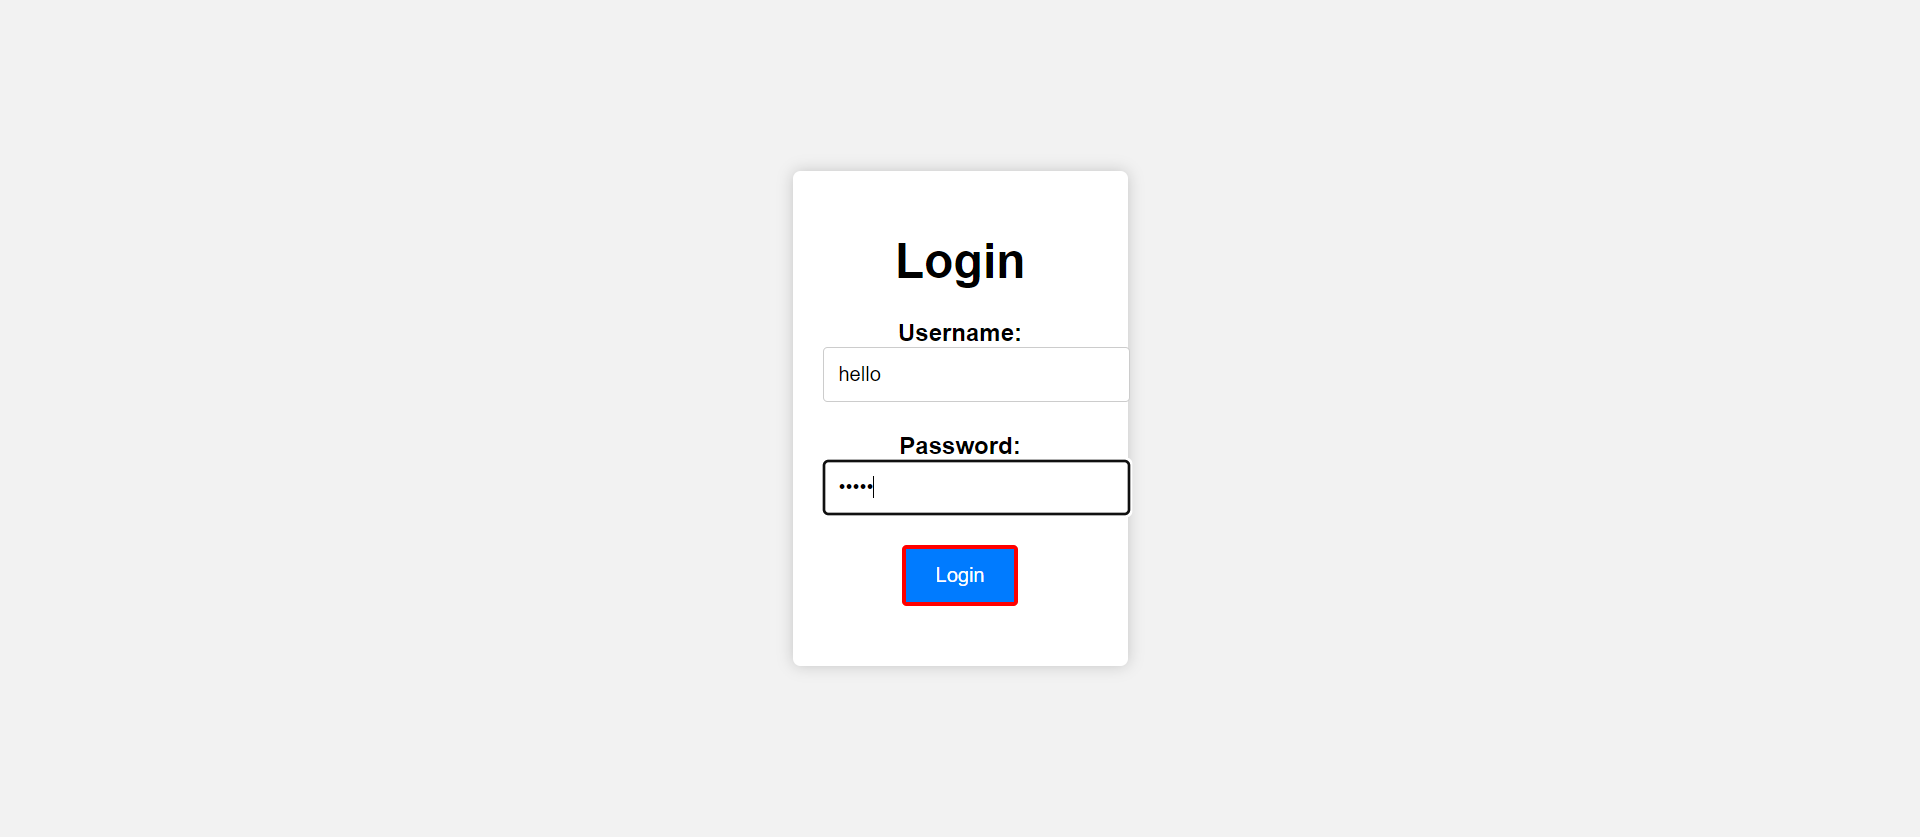
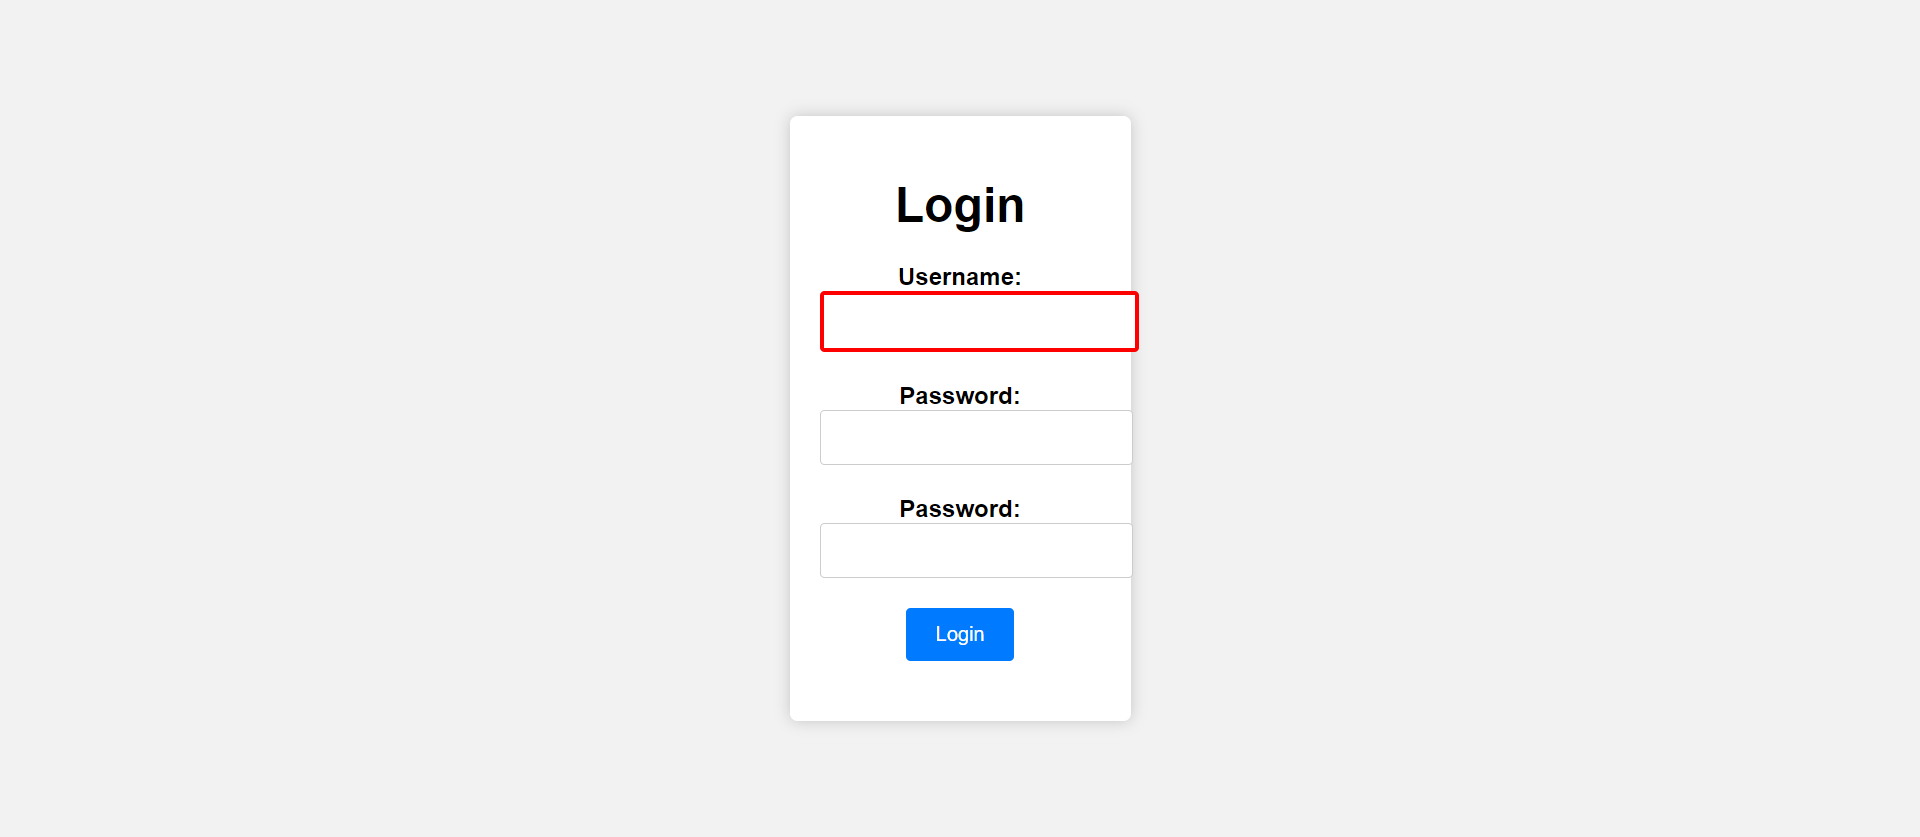
Added findElement healing ability

diff --git a/src/test/resources/Sample.html b/src/test/resources/Sample.html
@@ -64,15 +64,19 @@
         <h1>Login</h1>
         <form action="#" method="post">
             <div class="form-group">
-                <label for="username">Username:</label>
-                <input type="text" id="username" name="username" required>
+                <label for="username1">Username:</label>
+                <input type="text" id="username1" name="D1" required>
             </div>
             <div class="form-group">
                 <label for="password">Password:</label>
-                <input type="password" id="password" name="password" required>
+                <input type="text" id="password" name="D2" required>
             </div>
             <div class="form-group">
-                <input type="submit" id="loginButton1" value="Login">
+                <label for="password1">Password:</label>
+                <input type="text" id="password1" name="D3" required>
+            </div>
+            <div class="form-group">
+                <input type="submit" id="loginButton" value="Login">
             </div>
         </form>
     </div>

diff --git a/src/main/java/com/epam/healenium/handlers/proxy/BaseHandler.java b/src/main/java/com/epam/healenium/handlers/proxy/BaseHandler.java
@@ -386,21 +386,22 @@ import java.io.File;
 import java.io.IOException;
 import java.lang.reflect.InvocationHandler;
 import java.nio.file.Files;
-import java.nio.file.OpenOption;
 import java.nio.file.StandardOpenOption;
 import java.time.LocalDateTime;
 import java.time.format.DateTimeFormatter;
+import java.util.ArrayList;
+import java.util.Collections;
 import java.util.List;
-import java.util.Locale;
 import java.util.Optional;
 import java.util.concurrent.TimeUnit;
+import java.util.stream.Collectors;
 
 public abstract class BaseHandler implements InvocationHandler {
     private static final Logger log = LoggerFactory.getLogger(BaseHandler.class);
     private final LoadingCache<PageAwareBy, WebElement> stash;
     protected final SelfHealingEngine engine;
     protected final WebDriver driver;
-    private final LocatorInfo info = new LocatorInfo();
+    final LocatorInfo info = new LocatorInfo();
 
     /**
      * Constructor for BaseHandler.
@@ -414,7 +415,7 @@ public abstract class BaseHandler implements InvocationHandler {
                 .maximumSize(300L)
                 .expireAfterWrite(10L, TimeUnit.SECONDS)
                 .build(new CacheLoader<PageAwareBy, WebElement>() {
-                    public WebElement load(@NotNull PageAwareBy key) {
+                    public @NotNull WebElement load(@NotNull PageAwareBy key) {
                         return BaseHandler.this.lookUp(key);
                     }
                 });
@@ -437,6 +438,20 @@ public abstract class BaseHandler implements InvocationHandler {
         }
     }
 
+    // added
+    protected List<WebElement> findElements(By by) {
+        try {
+            PageAwareBy pageBy = awareBy(by);
+            By inner = pageBy.getBy();
+            if (engine.isHealingEnabled()) {
+                return lookUpAll(pageBy);
+            }
+            return driver.findElements(inner);
+        } catch (Exception ex) {
+            throw new NoSuchElementException("Failed to find elements using " + by.toString(), ex);
+        }
+    }
+
     /**
      * Look up a WebElement using a PageAwareBy locator.
      *
@@ -451,7 +466,7 @@ public abstract class BaseHandler implements InvocationHandler {
             return element;
         } catch (NoSuchElementException e) {
             log.warn("Failed to find an element using locator {}\nReason: {}\nTrying to heal...", key.getBy().toString(), e.getMessage());
-            return this.heal(key, e).orElseThrow(() -> e);
+            return heal(key, e).orElseThrow(() -> e);
         }
     }
 
@@ -471,7 +486,44 @@ public abstract class BaseHandler implements InvocationHandler {
         });
     }
 
-    private void reportFailedInfo(PageAwareBy by, LocatorInfo.Entry infoEntry, By healed) {
+    //added
+    protected List<WebElement> healAll(PageAwareBy pageBy, NoSuchElementException e) {
+        List<WebElement> healedElements = new ArrayList<>();
+        Optional<List<By>> healedLocators = healLocators(pageBy);
+
+        if (healedLocators.isPresent()) {
+            LocatorInfo.Entry entry = this.reportBasicInfo(pageBy, e);
+            for (By healed : healedLocators.get()) {
+                reportFailedInfo(pageBy, entry, healed);
+                engine.saveLocator(info);
+                healedElements.addAll(driver.findElements(healed));
+            }
+        }
+
+        return healedElements;
+    }
+
+    // added
+    protected List<WebElement> lookUpAll(PageAwareBy key) {
+        List<WebElement> elements = new ArrayList<>();
+        try {
+            List<WebElement> foundElements = this.driver.findElements(key.getBy());
+            for (WebElement element : foundElements) {
+                this.engine.savePath(key, element);
+                elements.add(element);
+            }
+            if (elements.isEmpty())
+                throw new NoSuchElementException("No elements found using locator " + key.getBy().toString());
+            else
+                return elements;
+        } catch (NoSuchElementException e) {
+            log.warn("Failed to find elements using locator {}\nReason: {}\nTrying to heal...", key.getBy().toString(), e.getMessage());
+            return this.healAll(key, e);
+        }
+    }
+
+
+    void reportFailedInfo(PageAwareBy by, LocatorInfo.Entry infoEntry, By healed) {
         String failedByValue = by.getBy().toString();
         int splitIndex = failedByValue.indexOf(":");
         infoEntry.setFailedLocatorType(failedByValue.substring(0, splitIndex).trim());
@@ -491,7 +543,7 @@ public abstract class BaseHandler implements InvocationHandler {
         }
     }
 
-    private LocatorInfo.Entry reportBasicInfo(PageAwareBy pageBy, NoSuchElementException e) {
+    LocatorInfo.Entry reportBasicInfo(PageAwareBy pageBy, NoSuchElementException e) {
         String targetClass = pageBy.getPageName();
         Optional<StackTraceElement> elOpt = StackUtils.getElementByClass(e.getStackTrace(), targetClass);
         return (LocatorInfo.Entry) elOpt.map((el) -> {
@@ -521,16 +573,49 @@ public abstract class BaseHandler implements InvocationHandler {
         return result.map(Scored::getValue);
     }
 
-   private static int imageCounter = 1;
+    //added
+    private boolean isScoreMatch(Scored<By> scoredBy, double threshold) {
+        double elementScore = scoredBy.getScore();
+        return elementScore >= threshold;
+    }
+
+    //added
+    protected Optional<List<By>> healLocators(PageAwareBy pageBy) {
+        log.debug("* healLocators start: " + LocalDateTime.now().format(DateTimeFormatter.ISO_LOCAL_TIME));
+        List<Scored<By>> choices = this.engine.findNewLocations(pageBy, this.pageSource());
+
+        double scoreThreshold = engine.getMatchScore();
+        List<Scored<By>> filteredChoices = choices.stream()
+                .filter(scoredBy -> isScoreMatch(scoredBy, scoreThreshold))
+                .collect(Collectors.toList());
+
+        List<By> healedLocators = filteredChoices.stream()
+                .map(Scored::getValue)
+                .collect(Collectors.toList());
+
+        // Reverse the list
+        Collections.reverse(healedLocators);
+
+        if (healedLocators.isEmpty()) {
+            log.warn("No new element locators have been found");
+            return Optional.empty();
+        }
+
+        log.debug("* healLocators finish: " + LocalDateTime.now().format(DateTimeFormatter.ISO_LOCAL_TIME));
+        return Optional.of(healedLocators);
+    }
+
+
+    private static int imageCounter = 1;
 
     private String captureScreen(By by) {
         WebElement element = this.findElement(by);
         String path;
         try {
-            JavascriptExecutor jse = (JavascriptExecutor)this.driver;
+            JavascriptExecutor jse = (JavascriptExecutor) this.driver;
             jse.executeScript("arguments[0].style.border='3px solid red'", element);
             WebDriver augmentedDriver = new Augmenter().augment(this.driver);
-            byte[] source = ((TakesScreenshot)augmentedDriver).getScreenshotAs(OutputType.BYTES);
+            byte[] source = ((TakesScreenshot) augmentedDriver).getScreenshotAs(OutputType.BYTES);
             FileHandler.createDir(new File(this.engine.getScreenshotPath()));
             File file = new File(this.engine.getScreenshotPath() + "screenshot_image_" + imageCounter + ".png");
             Files.write(file.toPath(), source, StandardOpenOption.CREATE_NEW, StandardOpenOption.WRITE);
@@ -544,14 +629,14 @@ public abstract class BaseHandler implements InvocationHandler {
         return path;
     }
 
-    private String pageSource() {
+    String pageSource() {
         return this.driver instanceof JavascriptExecutor ?
-                ((JavascriptExecutor)this.driver).executeScript("return document.body.outerHTML;").toString() :
+                ((JavascriptExecutor) this.driver).executeScript("return document.body.outerHTML;").toString() :
                 this.driver.getPageSource();
     }
 
     protected PageAwareBy awareBy(By by) {
-        return by instanceof PageAwareBy ? (PageAwareBy)by : PageAwareBy.by(this.driver.getTitle(), by);
+        return by instanceof PageAwareBy ? (PageAwareBy) by : PageAwareBy.by(this.driver.getTitle(), by);
     }
 
     protected void clearStash() {

diff --git a/src/test/java/org/example/Test.java b/src/test/java/org/example/Test.java
@@ -10,6 +10,7 @@ import org.openqa.selenium.chrome.ChromeDriver;
 
 import java.io.*;
 import java.net.MalformedURLException;
+import java.util.List;
 import java.util.Properties;
 
 public class Test {
@@ -39,13 +40,20 @@ public class Test {
         By username = By.xpath("//input[@id='username']");
         By password = By.xpath("//input[@id='password']");
         By login = By.xpath("//*[@id=\"loginButton\"]");
+        By eles = By.xpath("//input[@name='D']");
 
 
         driver.findElement(username).sendKeys("hello");
-        driver.findElement(password).sendKeys("hello");
-        driver.findElement(login).click();
+//        driver.findElement(password).sendKeys("hello");
+//        driver.findElement(login).click();
+//        int i = 1;
+//        List<WebElement> elements = driver.findElements(eles);
+//        for (WebElement webElement : elements) {
+//            webElement.sendKeys("user "+i);
+//            i++;
+//        }
+//        System.out.println(elements.size());
 
-
-        driver.quit();
+//        driver.quit();
     }
 }

diff --git a/src/main/java/com/epam/healenium/handlers/proxy/SelfHealingProxyInvocationHandler.java b/src/main/java/com/epam/healenium/handlers/proxy/SelfHealingProxyInvocationHandler.java
@@ -12,7 +12,9 @@ import org.slf4j.Logger;
 import org.slf4j.LoggerFactory;
 
 import java.lang.reflect.Method;
+import java.util.List;
 import java.util.Optional;
+import java.util.stream.Collectors;
 
 public class SelfHealingProxyInvocationHandler extends BaseHandler {
     private static final Logger log = LoggerFactory.getLogger(SelfHealingProxyInvocationHandler.class);
@@ -41,6 +43,9 @@ public class SelfHealingProxyInvocationHandler extends BaseHandler {
             case "findElement":
                 WebElement element = this.findElement((By) args[0]);
                 return Optional.ofNullable(element).map(it -> this.wrapElement(it, loader)).orElse(null);
+            case "findElements":
+                List<WebElement> elements = this.findElements((By) args[0]);
+                return elements.stream().map(it -> wrapElement(it, loader)).collect(Collectors.toList());
             case "getCurrentEngine":
                 return this.engine;
             case "getDelegate":

diff --git a/src/main/java/com/epam/healenium/SelfHealingEngine.java b/src/main/java/com/epam/healenium/SelfHealingEngine.java
@@ -47,7 +47,14 @@ public class SelfHealingEngine {
     private final WebDriver webDriver;
     private final PathStorage storage;
     private final int recoveryTries;
+
+    private double matchScrore;
     private final List<Set<SelectorComponent>> selectorDetailLevels;
+
+    public double getMatchScore()
+    {
+        return matchScrore;
+    }
 
     /**
      * Constructs a SelfHealingEngine instance.
@@ -60,7 +67,7 @@ public class SelfHealingEngine {
         this.config = config;
         this.storage = new FileSystemPathStorage(config);
         this.recoveryTries = Integer.parseInt(config.getProperty("recovery-tries"));
-
+        this.matchScrore = Double.parseDouble(config.getProperty("match-score"));
         // Initialize selectorDetailLevels
         this.selectorDetailLevels = initSelectorDetailLevels();
     }

diff --git a/src/main/java/com/epam/healenium/utils/ConfigFactory.java b/src/main/java/com/epam/healenium/utils/ConfigFactory.java
@@ -55,6 +55,7 @@ public class ConfigFactory {
         // Define default properties
         Properties properties = new Properties();
         properties.setProperty("recovery-tries", "3");
+        properties.setProperty("match-score", ".75");
         properties.setProperty("basePath", "heal-output/selenium");
         properties.setProperty("reportPath", "heal-output/reports");
         properties.setProperty("screenshotPath", "heal-output/screenshots/");
